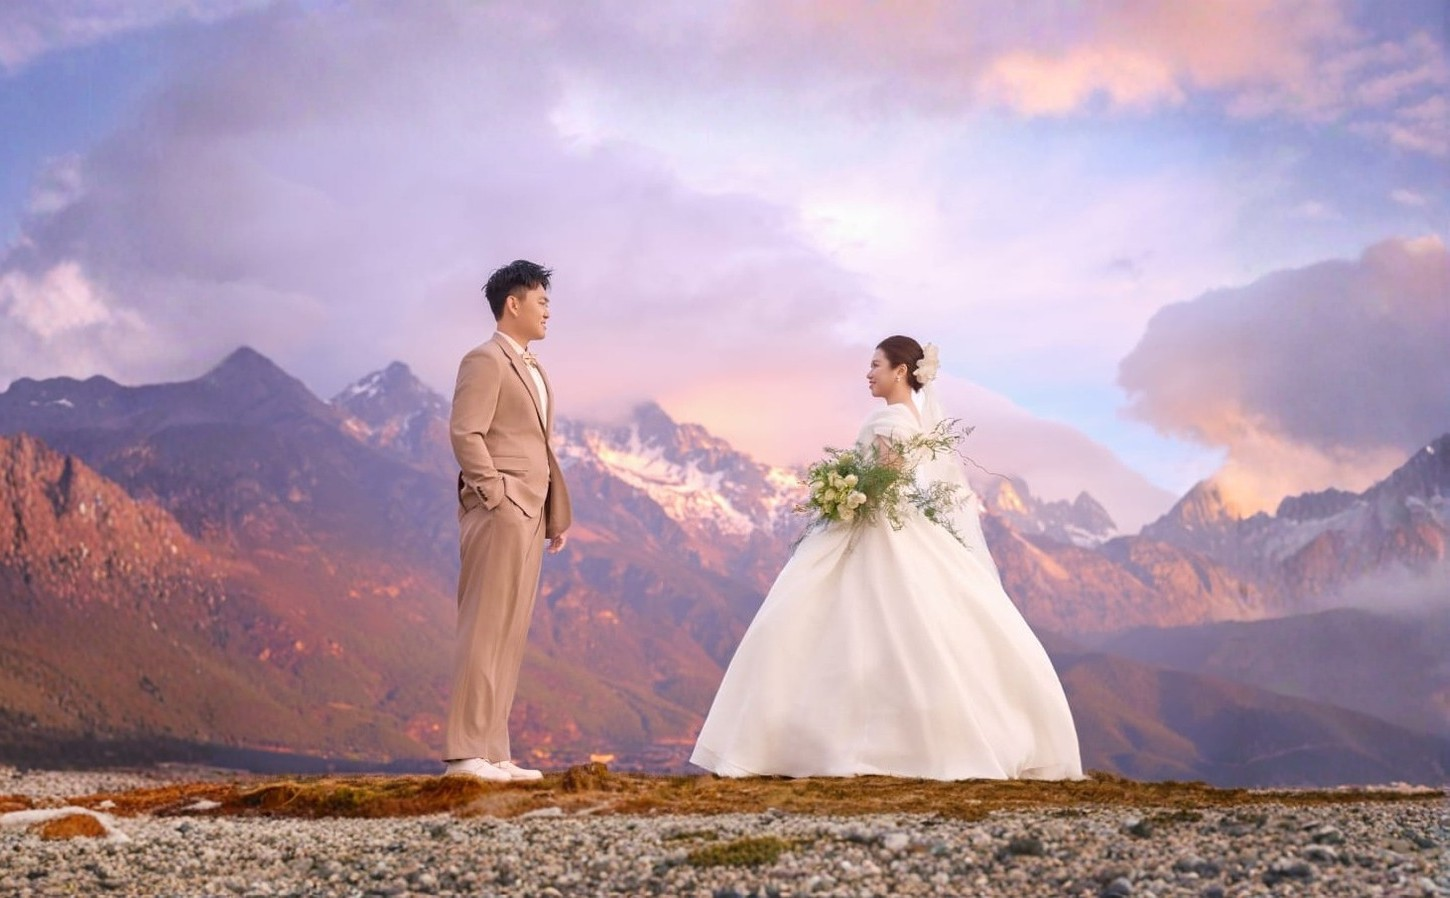
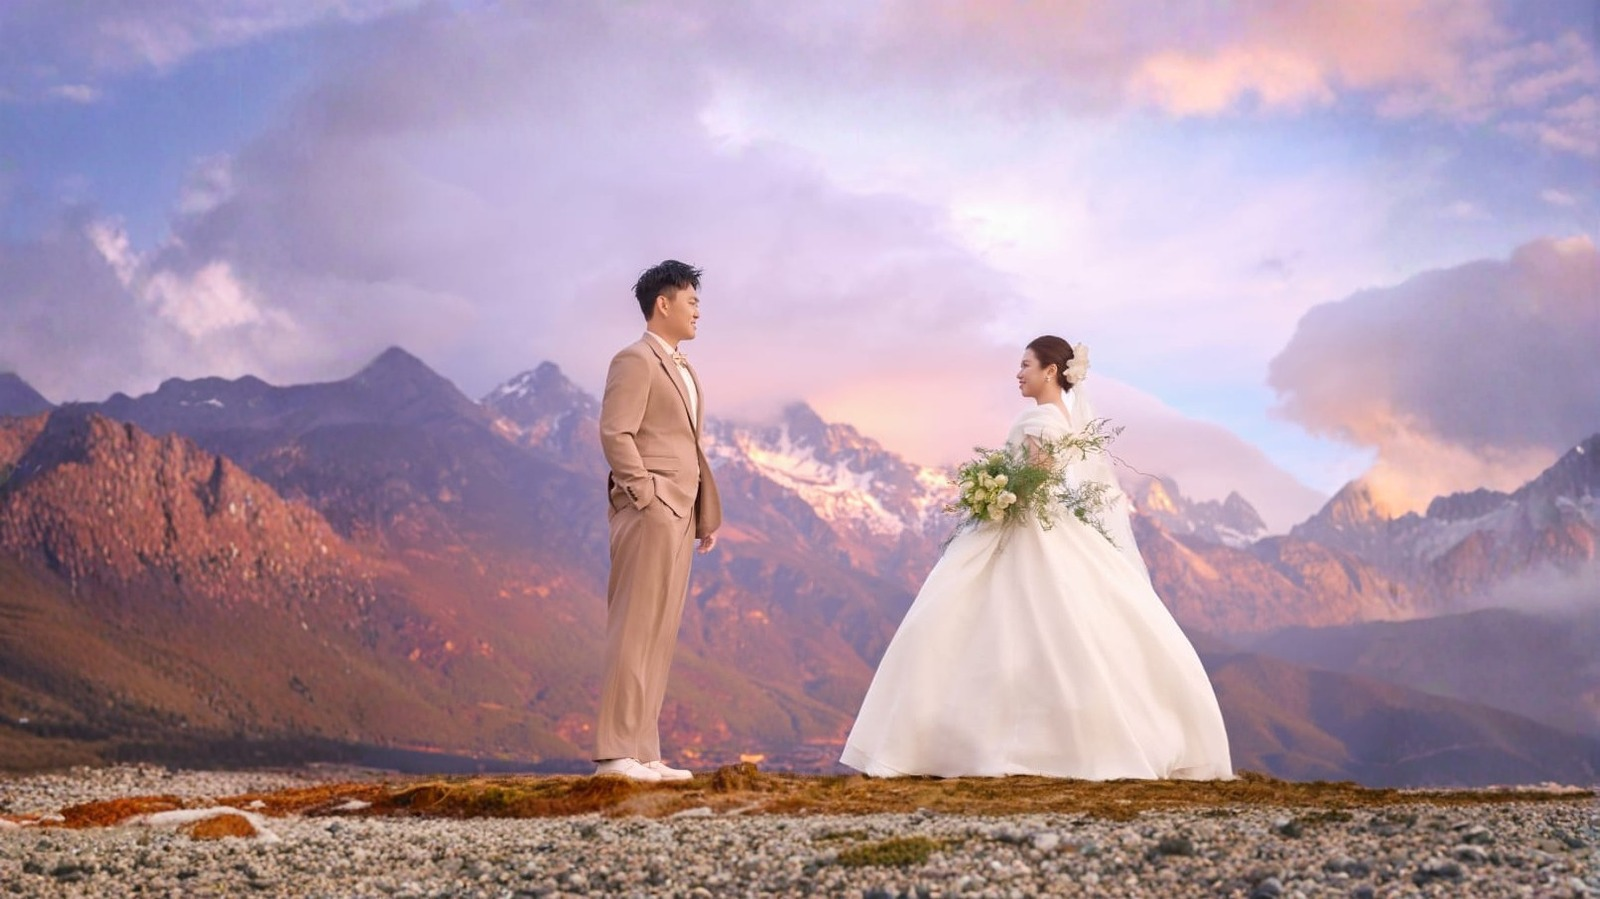
Update hero image

diff --git a/src/sections/Hero.tsx b/src/sections/Hero.tsx
@@ -7,26 +7,26 @@ export default function Hero() {
       <img
         src={hero}
         alt="Zhi Han and Yi Qi in the mountains"
-        className="absolute inset-0 h-full w-full object-cover object-[50%_20%]"
+        className="absolute inset-0 h-full w-full object-cover object-[50%_45%] scale-[1.12]"
       />
       <div className="absolute inset-0 flex flex-col items-center justify-center px-6">
         {/* Monogram */}
-        <div className="relative flex items-center">
-          <span className="font-display text-white text-7xl sm:text-8xl lg:text-9xl leading-none pr-5 sm:pr-8">
+        <div className="relative flex items-center -translate-y-[6%]">
+          <span className="font-display text-white text-5xl sm:text-7xl lg:text-8xl leading-none pr-4 sm:pr-6">
             T
           </span>
-          <span className="block w-px h-20 sm:h-24 lg:h-28 bg-white/90" />
-          <span className="font-display text-white text-7xl sm:text-8xl lg:text-9xl leading-none pl-5 sm:pl-8">
+          <span className="block w-px h-14 sm:h-20 lg:h-24 bg-white/90" />
+          <span className="font-display text-white text-5xl sm:text-7xl lg:text-8xl leading-none pl-4 sm:pl-6">
             L
           </span>
           {/* Name banner crossing the monogram */}
-          <div className="absolute left-1/2 top-1/2 -translate-x-1/2 -translate-y-1/2 bg-white px-5 sm:px-8 py-2 sm:py-2.5 shadow-sm">
-            <p className="whitespace-nowrap text-[10px] sm:text-sm lg:text-base font-medium tracking-[0.35em] sm:tracking-[0.45em] text-neutral-900">
+          <div className="absolute left-1/2 top-1/2 -translate-x-1/2 -translate-y-1/2 bg-white px-4 sm:px-7 py-1.5 sm:py-2 shadow-sm">
+            <p className="whitespace-nowrap text-[9px] sm:text-xs lg:text-sm font-medium tracking-[0.35em] sm:tracking-[0.45em] text-neutral-900">
               ZHI&nbsp;HAN&nbsp;&amp;&nbsp;YI&nbsp;QI
             </p>
           </div>
         </div>
-        <img src={rings} alt="" className="mt-6 w-36 sm:w-48 opacity-95" />
+        <img src={rings} alt="" className="mt-5 w-32 sm:w-44 opacity-95" />
       </div>
       {/* scroll hint */}
       <div className="absolute bottom-6 left-1/2 -translate-x-1/2 text-white/90">
